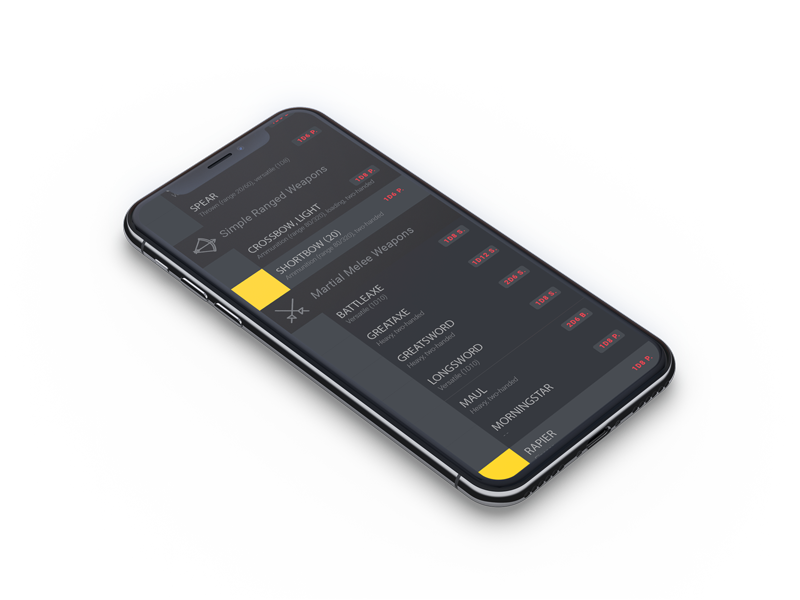
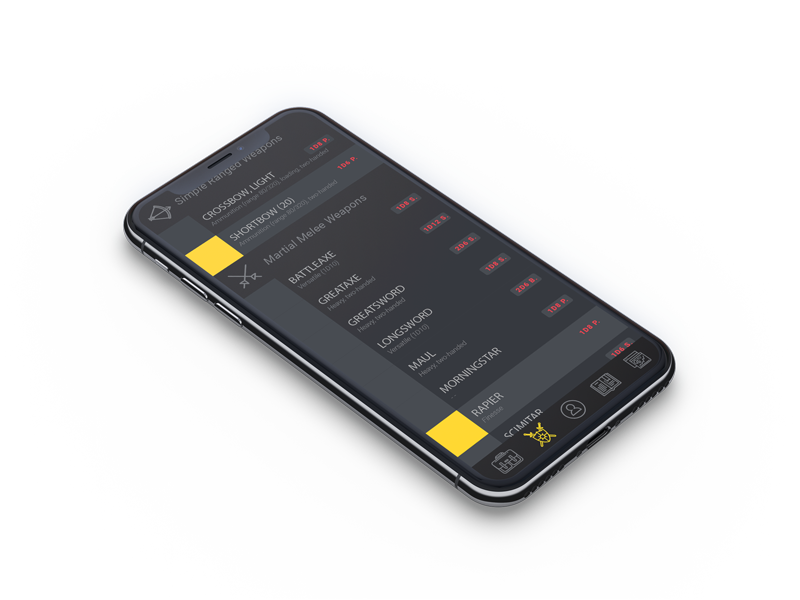
mobile optimisation

diff --git a/src/components/Project/project.module.scss b/src/components/Project/project.module.scss
@@ -1,31 +1,35 @@
 @import "src/css/utils";
 
-$glitchText: (
-  (0%, 20%, 21%),
-  (2%, 33%, 33%),
-  (4%, 44%, 44%),
-  (5%, 50%, 20%),
-  (6%, 70%, 70%),
-  (7%, 80%, 80%),
-  (8%, 50%, 55%),
-  (9%, 70%, 80%)
-);
-
 .project {
-  @include flex(c, m, row);
-  margin: 2rem auto;
+  @include flex(c, m, col);
+  margin: 4rem auto;
   max-width: 800px;
   position: relative;
+  text-align: center;
   text-decoration: none;
+  width: calc(100% - 2rem);
+  @include bp-min($bp-sm) {
+    flex-direction: row;
+    margin: 2rem auto;
+    text-align: left;
+    width: 100%;
+    &:nth-of-type(odd) {
+      flex-direction: row-reverse;
+      text-align: right;
+    }
+  }
+
   .project__img__container {
-    height: 360px;
-    width: 480px;
     position: relative;
     transition: all 0.25s;
+    width: 100%;
+    @include bp-min($bp-sm) {
+      max-width: 480px;
+      min-width: 50%;
+    }
     .project__goto {
       @include absolute(0, 0, 0, 0);
       @include flex(c, m, row);
-      background-color: $color-bg;
       color: rgba(0, 0, 0, 0.5);
       opacity: 0;
       text-align: center;
@@ -41,7 +45,6 @@ $glitchText: (
         &:nth-child(n + 1) {
           @include absolute(0, 0, 0, 0);
           @include flex(c, m, row);
-          background-color: $color-bg;
         }
         &:nth-child(2) {
           animation: glitchContinuous 4s infinite linear;
@@ -58,20 +61,17 @@ $glitchText: (
   }
   .project__info {
     margin: 0 1rem;
-    .project__name {
+    .project__name,
+    .project__type,
+    .project__desc {
+      margin: 0.5rem auto;
       transition: transform 0.25s cubic-bezier(0.25, 0.46, 0.45, 0.94);
     }
     .project__type {
-      transition: transform 0.25s cubic-bezier(0.25, 0.46, 0.45, 0.94) 0.1s;
+      transition-delay: 0.1s;
     }
     .project__desc {
-      @include font(body);
-      transition: transform 0.25s cubic-bezier(0.25, 0.46, 0.45, 0.94) 0.2s;
-    }
-
-    .project__button {
-      padding-left: 0;
-      padding-right: 0;
+      transition-delay: 0.2s;
     }
   }
   &:hover {
@@ -88,22 +88,11 @@ $glitchText: (
       }
     }
   }
-
-  .project__link {
-    @include absolute(0, 0, 0, 0);
-    color: transparent;
-    cursor: pointer;
-    z-index: 1;
-  }
-  &:nth-of-type(odd) {
-    flex-direction: row-reverse;
-    text-align: right;
-    &:hover .project__info {
-      .project__name,
-      .project__type,
-      .project__desc {
-        transform: translateX(-1rem);
-      }
+  &:nth-of-type(odd):hover .project__info {
+    .project__name,
+    .project__type,
+    .project__desc {
+      transform: translateX(-1rem);
     }
   }
 }

diff --git a/src/components/Logo/index.js b/src/components/Logo/index.js
@@ -6,33 +6,12 @@ import img_m from "./img/logo_glitch_m.png";
 import img_r from "./img/logo_glitch_r.png";
 import logo from "./logo.module.scss";
 
-const Logo = ({ className, size, to }) => (
-  <div
-    className={cx(logo.container, className)}
-    style={{ height: size, width: size }}
-  >
+const Logo = ({ className, to }) => (
+  <div className={cx(logo.container, className)}>
     {to && <Link className={logo.link} to={to} />}
-    <img
-      className={cx(logo.logo, logo.main)}
-      alt="logo"
-      title="EllieAshton Logo"
-      src={img_m}
-      style={{ height: size, width: size }}
-    />
-    <img
-      className={cx(logo.logo, logo.left)}
-      alt="logo"
-      title="EllieAshton Logo"
-      src={img_l}
-      style={{ height: size, width: size }}
-    />
-    <img
-      className={cx(logo.logo, logo.right)}
-      alt="logo"
-      title="EllieAshton Logo"
-      src={img_r}
-      style={{ height: size, width: size }}
-    />
+    <img className={cx(logo.logo, logo.main)} alt="logo" src={img_m} />
+    <img className={cx(logo.logo, logo.left)} alt="logo" src={img_l} />
+    <img className={cx(logo.logo, logo.right)} alt="logo" src={img_r} />
   </div>
 );
 

diff --git a/src/Home.js b/src/Home.js
@@ -67,8 +67,8 @@ class Home extends Component {
   render() {
     return (
       <div className="Home">
-        <section style={{ height: "50vh", paddingTop: "6rem" }}>
-          <Logo size={60} />
+        <section>
+          <Logo />
           <Heading size="xl" glitch>
             <strong>Ellie</strong>
             <span>Ashton</span>
@@ -89,17 +89,17 @@ class Home extends Component {
             />
           ))}
         </section>
-        <section style={{ height: "50vh", paddingBottom: "6rem" }}>
-          <Heading size="lg" glitch={true}>
+        <section>
+          <Heading size="md" glitch={true}>
             Get in touch
           </Heading>
           <Subheading>I'm available in these places</Subheading>
           <div
             style={{
               display: "flex",
-              justifyContent: "space-around",
-              padding: "2rem",
-              width: "320px"
+              justifyContent: "center",
+              padding: "1rem",
+              width: "100%"
             }}
           >
             <Icon

diff --git a/src/css/scrollspy.module.scss b/src/css/scrollspy.module.scss
@@ -1,24 +1,27 @@
 @import "utils";
 
 .link {
-  color: transparent;
-  height: 2px;
-  margin-left: 1rem;
-  padding: 0.5rem;
-  text-decoration: none;
+  display: none;
+  @include bp-min($bp-md) {
+    color: transparent;
+    display: block;
+    height: 2px;
+    margin-left: 1rem;
+    padding: 0.5rem;
+    text-decoration: none;
 
-  hr {
-    border: 1px solid rgba($color-text, 0.5);
-    border-width: 1px 0 0 0;
-    margin: 0;
-    transition: all 0.25s cubic-bezier(0, 0, 0.2, 1);
-    width: 1rem;
-  }
-}
-
-.active {
-  hr {
-    border-width: 2px 0 0 0;
-    width: 2rem;
+    hr {
+      border: 1px solid rgba($color-text, 0.5);
+      border-width: 1px 0 0 0;
+      margin: 0;
+      transition: all 0.25s cubic-bezier(0, 0, 0.2, 1);
+      width: 1rem;
+    }
+    &.active {
+      hr {
+        border-width: 2px 0 0 0;
+        width: 2rem;
+      }
+    }
   }
 }

diff --git a/src/components/Heading/heading.module.scss b/src/components/Heading/heading.module.scss
@@ -8,16 +8,28 @@
   text-align: center;
 
   &.size--md .heading__content {
-    font-size: 54px;
-    letter-spacing: -7px;
+    font-size: 36px;
+    letter-spacing: -4px;
+    @include bp-min($bp-sm) {
+      font-size: 48px;
+      letter-spacing: -5px;
+    }
   }
   &.size--lg .heading__content {
-    font-size: 64px;
-    letter-spacing: -8px;
+    font-size: 56px;
+    letter-spacing: -6px;
+    @include bp-min($bp-sm) {
+      font-size: 64px;
+      letter-spacing: -7px;
+    }
   }
   &.size--xl .heading__content {
-    font-size: 80px;
-    letter-spacing: -9px;
+    font-size: 64px;
+    letter-spacing: -7px;
+    @include bp-min($bp-sm) {
+      font-size: 80px;
+      letter-spacing: -9px;
+    }
   }
 
   .heading__content {

diff --git a/src/css/App.scss b/src/css/App.scss
@@ -21,5 +21,23 @@
 
   section {
     @include flex(c, m, col);
+    &:first-of-type {
+      padding: 4rem 1rem 2rem;
+      @include bp-min($bp-sm) {
+        padding: 6rem 2rem 4rem;
+      }
+      @include bp-min($bp-lg) {
+        padding: 8rem 4rem 6rem;
+      }
+    }
+    &:last-of-type {
+      padding: 2rem 1rem 4rem;
+      @include bp-min($bp-sm) {
+        padding: 4rem 2rem 6rem;
+      }
+      @include bp-min($bp-lg) {
+        padding: 6rem 4rem 8rem;
+      }
+    }
   }
 }

diff --git a/src/css/utils/_variables.scss b/src/css/utils/_variables.scss
@@ -1,4 +1,11 @@
-// Brands
+// Breakpoints
+$bp-xs: 480;
+$bp-sm: 640;
+$bp-md: 800;
+$bp-lg: 1024;
+$bp-xl: 1280;
+
+// Colors
 $color-bg: #fafafa;
 $color-text: #242424;
 $color-subtext: #c4c4c4;
@@ -6,10 +13,10 @@ $color-glitch-1: #0ff;
 $color-glitch-2: #f0f;
 
 // Typography
-$line-height-base: 1.6;
 $font-size-base: 1rem;
 $font-body: "Work Sans", "Arial", sans-serif;
 $font-btn: "Open Sans", sans-serif;
+$line-height-base: 1.6;
 
 // Buttons
 $btn-default-color: $color-text;

diff --git a/src/components/Logo/logo.module.scss b/src/components/Logo/logo.module.scss
@@ -1,12 +1,23 @@
 @import "src/css/utils";
 
 .container {
+  height: 48px;
+  width: 48px;
   position: relative;
+  @include bp-min($bp-sm) {
+    height: 60px;
+    width: 60px;
+  }
 
   .link {
     @include absolute(0, 0, 0, 0);
     cursor: pointer;
     z-index: 1;
+  }
+
+  .logo {
+    height: 100%;
+    width: 100%;
   }
 
   .logo:not(.main) {

diff --git a/src/components/Project/index.js b/src/components/Project/index.js
@@ -75,8 +75,8 @@ class Project extends Component {
             glitch={this.state.hover}
             src={this.props.img}
             alt={this.props.name}
-            height={360}
-            width={480}
+            // height={360}
+            // width={480}
           />
         </div>
         <div className={css.project__info}>

diff --git a/src/components/Subheading/subheading.module.scss b/src/components/Subheading/subheading.module.scss
@@ -15,12 +15,16 @@
 }
 
 .subheading {
-  font-size: 32px;
+  font-size: 24px;
   font-weight: 300;
-  letter-spacing: -2px;
+  letter-spacing: -1px;
   margin: 0;
   position: relative;
   text-transform: lowercase;
+  @include bp-min($bp-sm) {
+    font-size: 32px;
+    letter-spacing: -2px;
+  }
 
   strong {
     font-weight: 500;

diff --git a/src/components/GlitchImg/glitchimg.module.scss b/src/components/GlitchImg/glitchimg.module.scss
@@ -19,6 +19,10 @@ $blend-offsets: translate(#{$offsetX}), translate(#{(-1 * $offsetX)}),
       @include absolute(0, 0, 0, 0);
       overflow: hidden;
     }
+
+    img {
+      width: 100%;
+    }
   }
 
   &.glitchActive,

diff --git a/src/components/Icon/icon.module.scss b/src/components/Icon/icon.module.scss
@@ -1,7 +1,7 @@
 @import "src/css/utils";
 
 .iconWrap {
-  margin: 0;
+  margin: 0 0.5rem;
   position: relative;
   text-decoration: none;
 
